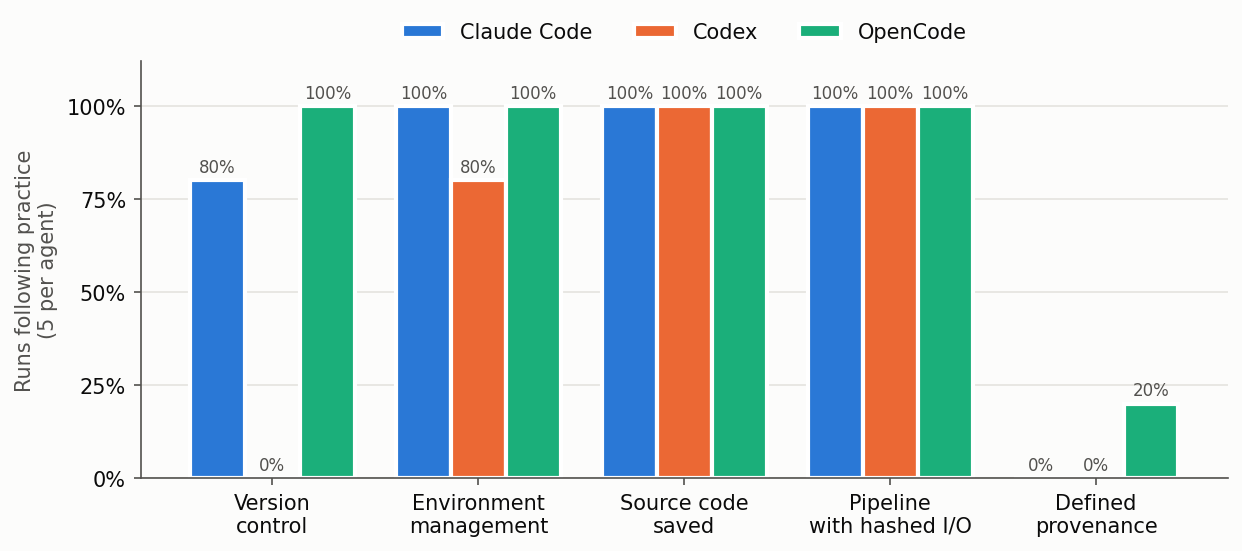
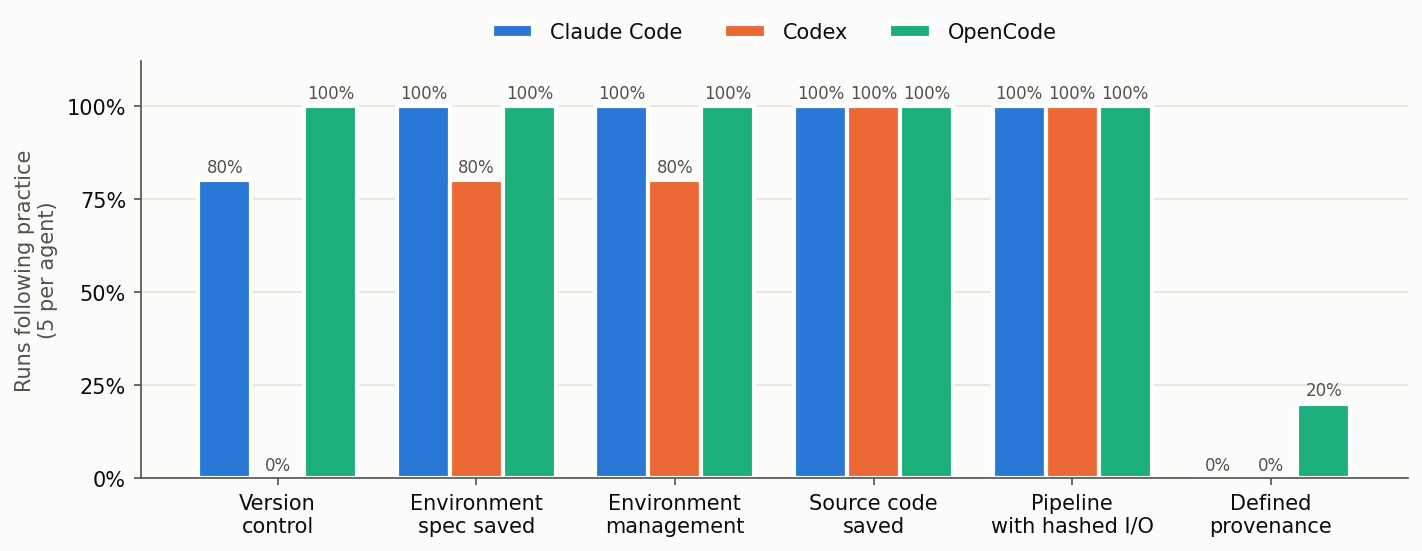
Show saving an environment spec as a prerequisite beside environment management

diff --git a/scripts/plot_practices.py b/scripts/plot_practices.py
@@ -1,7 +1,7 @@
 """Plot the share of each agent's runs following the four practices.
 
-Whether the source code was saved, a prerequisite of a pipeline, is shown
-just before the pipeline practice.
+Each prerequisite, an environment spec saved and the source code saved,
+is shown just before the practice it leads to.
 
 One figure for the reproducibility experiment's no-git condition, where
 agents weren't told about reproducibility (the condition with Git
@@ -22,7 +22,7 @@ from common import (
     save_fig,
     style_axes,
 )
-from score_reproducibility import PRACTICES, SOURCE_CODE
+from score_reproducibility import PRACTICES, PREREQUISITES
 
 AGENT_NAMES = {"claude": "Claude Code", "codex": "Codex",
                "opencode": "OpenCode"}
@@ -33,11 +33,12 @@ FIGURES = [
 
 
 def measures() -> dict[str, str]:
-    """The practices, with source code saved just before the pipeline."""
+    """The practices, each preceded by its prerequisite, if any."""
     out = {}
     for key, label in PRACTICES.items():
-        if key == "pipeline_hashed_io":
-            out.update(SOURCE_CODE)
+        if key in PREREQUISITES:
+            measure, prereq_label = PREREQUISITES[key]
+            out[measure] = prereq_label
         out[key] = label
     return out
 
@@ -45,13 +46,13 @@ def measures() -> dict[str, str]:
 def plot(by_agent: dict, path) -> None:
     shown = measures()
     labels = [v.replace(" ", "\n", 1) if v.count(" ") == 1
-              else v.replace(" with ", "\nwith ").replace(" code ",
-                                                           " code\n")
+              else v.replace(" with ", "\nwith ").replace(" code ", " code\n")
+              .replace(" spec ", "\nspec ")
               for v in shown.values()]
     # Fixed agent order, so each keeps its color across figures
     agents = [a for a in AGENT_STYLE if a in by_agent]
     width = 0.8 / len(agents)
-    fig, ax = plt.subplots(figsize=(8.4, 3.8))
+    fig, ax = plt.subplots(figsize=(9.6, 3.8))
     style_axes(ax)
     for i, agent in enumerate(agents):
         x = [j + (i - (len(agents) - 1) / 2) * width

diff --git a/scripts/score_reproducibility.py b/scripts/score_reproducibility.py
@@ -24,10 +24,12 @@ file with where it came from (e.g., "provided by", "collected by",
 data, where it came from, or for its ``created_by`` or ``imported_from``.
 Matching text is saved with each run so the classification can be audited.
 
-Also scored, as a prerequisite of the pipeline practice rather than a
-practice of its own, is whether the source code was saved: every figure is
-named by a script in the workspace (``figures_scripted``), not made with
-code passed straight to an interpreter.
+Two prerequisites are scored too, each shown beside its practice rather
+than counted as one: whether an environment spec was saved, i.e., any file
+declaring the packages, pinned or not (``env_declared``), for environment
+management, and whether the source code was saved, i.e., every figure is
+named by a script in the workspace, not made with code passed straight to
+an interpreter (``figures_scripted``), for the pipeline.
 
 Hashes are recorded by any of:
 
@@ -91,8 +93,12 @@ PRACTICES = {
     "pipeline_hashed_io": "Pipeline with hashed I/O",
     "defined_provenance": "Defined provenance",
 }
-# A prerequisite of a pipeline, shown beside the practices but not one
-SOURCE_CODE = {"figures_scripted": "Source code saved"}
+# Prerequisites shown just before the practice each leads to, but not
+# counted as practices: practice -> (measure, label)
+PREREQUISITES = {
+    "environment_management": ("env_declared", "Environment spec saved"),
+    "pipeline_hashed_io": ("figures_scripted", "Source code saved"),
+}
 ENV_SPECS = re.compile(
     r"^(requirements.*\.txt|pyproject\.toml|environment\.ya?ml|Pipfile|"
     r"pixi\.toml|setup\.py|setup\.cfg|conda\.ya?ml|renv\.lock|Project\.toml)$"

diff --git a/README.md b/README.md
@@ -126,10 +126,11 @@ others.
      or ask, and cite any reference values quoted. Comparing results with
      "typical handbook values" without a citation breaks this practice.
 
-  Whether the source code was saved, i.e., every figure is made by a
-  script in the project rather than code passed straight to an
-  interpreter, is scored too, as a prerequisite of practice 3 rather than
-  a practice of its own.
+  Two prerequisites are scored too, rather than counted as practices:
+  whether an environment spec was saved, i.e., any file declaring the
+  packages, pinned or not, for practice 2, and whether the source code was
+  saved, i.e., every figure is made by a script in the project rather than
+  code passed straight to an interpreter, for practice 3.
 
   In a `no-git` condition the same request is made on a machine without
   Git, and the sessions are checked for whether agents try Git, notice it
